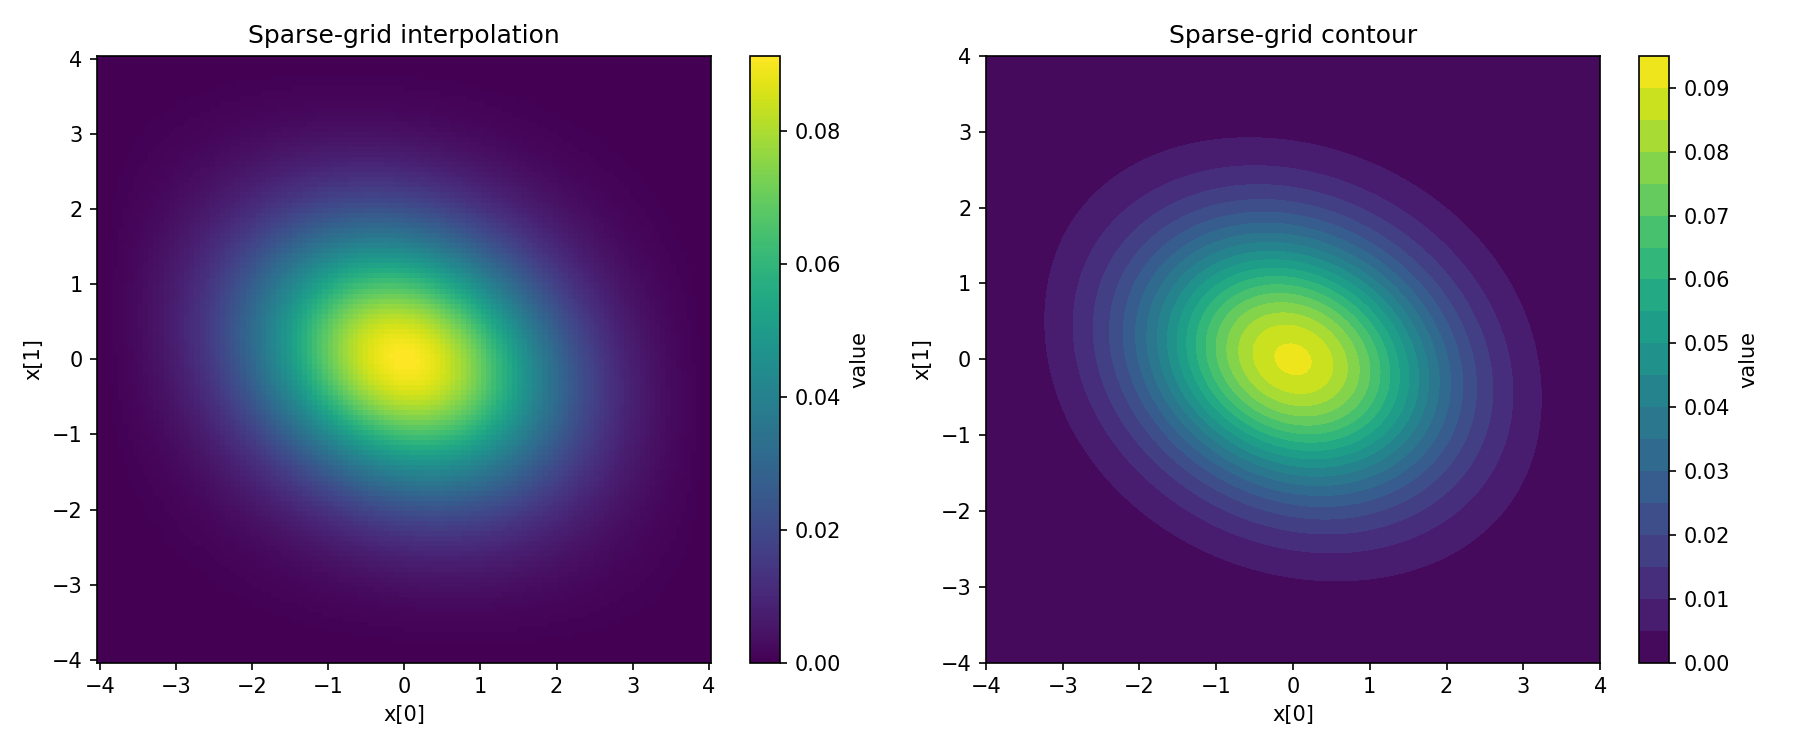
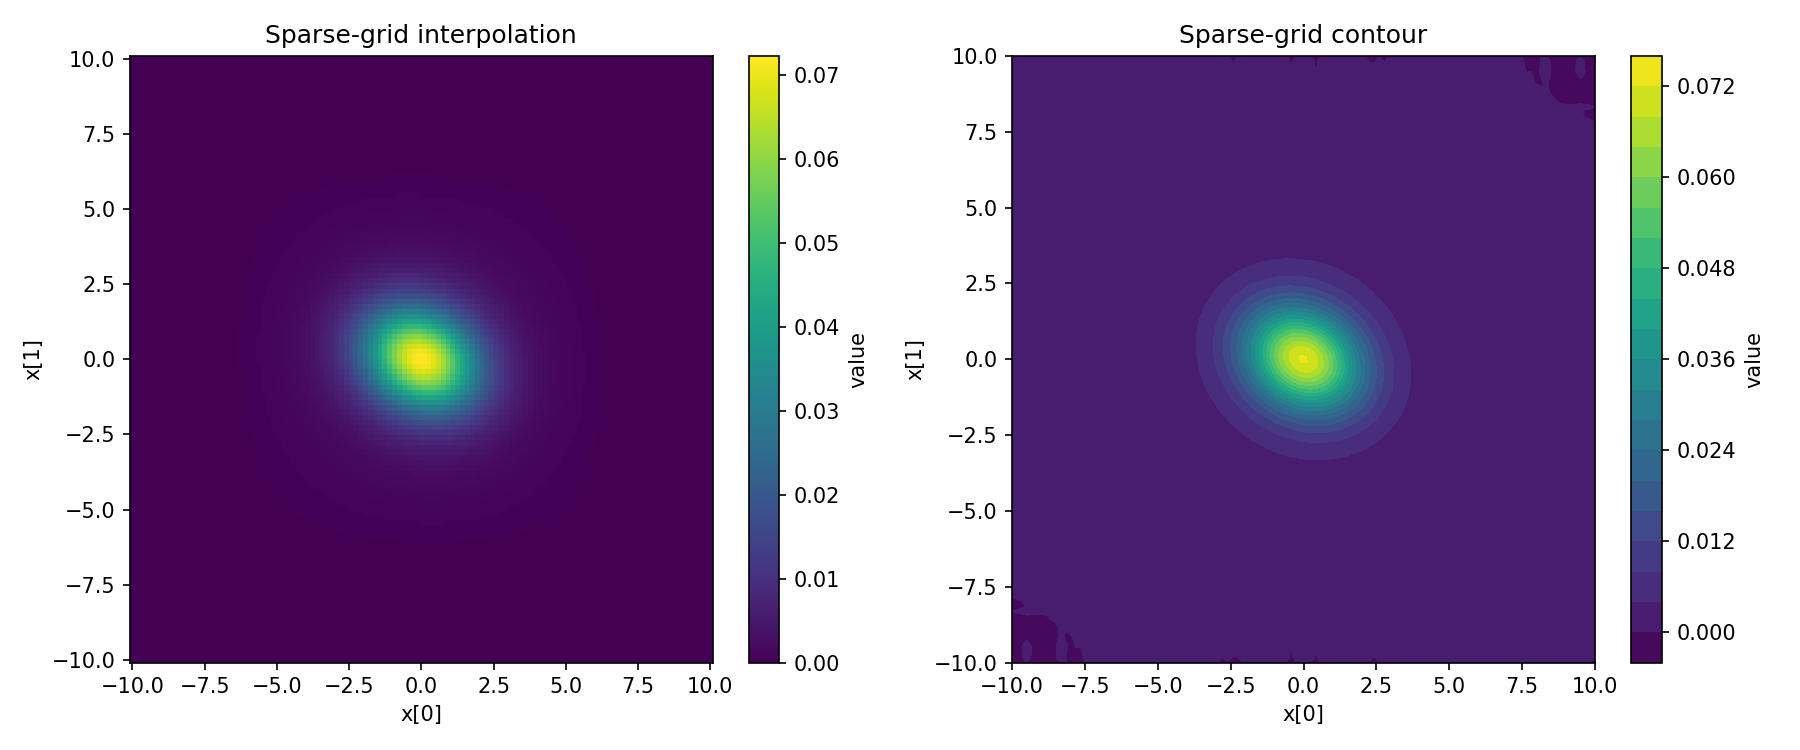
that sneaky long tailed cauchy

diff --git a/combination_technique/examples/ou_2d.py b/combination_technique/examples/ou_2d.py
@@ -11,7 +11,7 @@ import numpy as np
 
 from combination_technique import OrnsteinUhlenbeck, TensorGrid, TimeStepper, solve_combination, result_to_sgpp
 from combination_technique.diagnostics import covariance, mass
-from combination_technique.initial import gaussian_density, product_laplace_density
+from combination_technique.initial import cauchy_density, gaussian_density, product_laplace_density
 
 
 def main() -> None:
@@ -26,22 +26,24 @@ def main() -> None:
     ]])
     model = OrnsteinUhlenbeck(sigma)
     stepper = TimeStepper(dt=0.01, theta=1.0)
-    lvl = 10
+    lvl = 12
+    L = 10.0
 
     result = solve_combination(
         model,
         level=lvl,
         #initial_condition=gaussian_density,
-        initial_condition=product_laplace_density,
+        initial_condition=cauchy_density,
+        #initial_condition=product_laplace_density,
         final_time=1.0,
         #final_time=0.01,
         stepper=stepper,
-        domain_radius=4.0,
+        domain_radius=L,
         bc="dirichlet",
-        max_workers=1,
+        max_workers=8,
     )
 
-    target = TensorGrid.from_level((4, 4), domain_radius=4.0)
+    target = TensorGrid.from_level((4, 4), domain_radius=L)
     combined = result.combine_on_grid(target)
     print(f"components: {len(result.components)}")
     print(f"mass on target grid: {mass(target, combined):.8f}")
